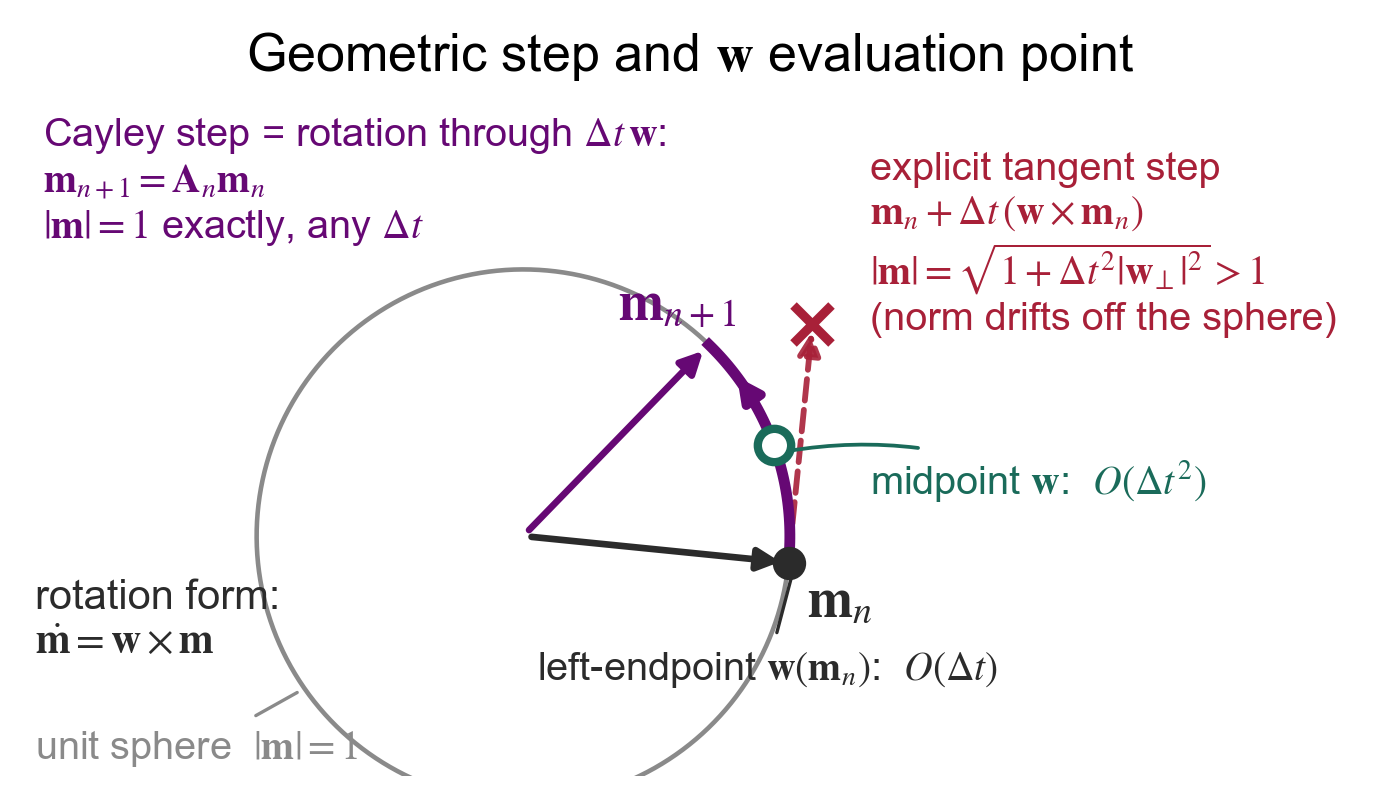
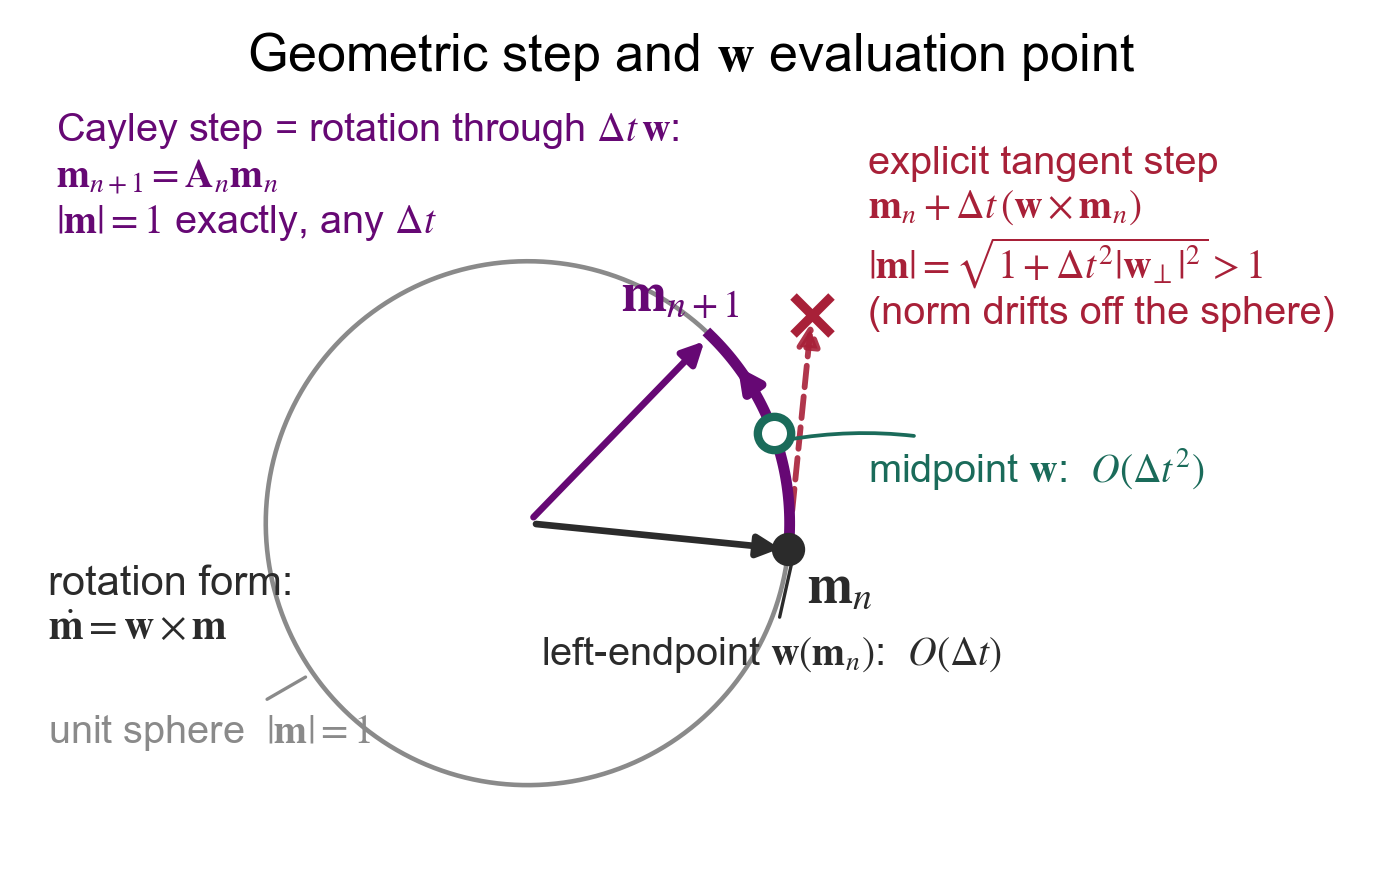
fig(sec-2.2.3.2): article-ready composite (aligned titles, full unit circle)
Round-8 layout pass: panel-a title top-aligned with the data panels via
aspect anchor='N'; unit circle no longer clipped (ylim extended); banner-free
2x2 composite with bbox_inches='tight' so the right-column direct labels are
not clipped. Mirrored to article/figs/Chapter02_local_22.png for insertion as
the next chapter figure.

diff --git a/scripts/09_simulation_figures/fig_integrator_verification_panels.py b/scripts/09_simulation_figures/fig_integrator_verification_panels.py
@@ -192,9 +192,9 @@ def panel_geometry(ax):
                 arrowprops=dict(arrowstyle="-", color=TEAL, lw=0.9,
                                 connectionstyle="arc3,rad=0.15"))
 
-    ax.set_xlim(-1.85, 3.10)
-    ax.set_ylim(-0.90, 1.62)
-    ax.set_aspect("equal")
+    ax.set_xlim(-1.90, 3.15)
+    ax.set_ylim(-1.24, 1.60)
+    ax.set_aspect("equal", adjustable="box", anchor="N")  # top-anchored → title aligns
     ax.axis("off")
     ax.set_title("Geometric step and $\\mathbf{w}$ evaluation point")
 
@@ -384,14 +384,24 @@ for fname, fn in PANELS:
     plt.close(fig)
     print("wrote", os.path.join(OUT, fname))
 
-# preview composite (inspection only, not for publication)
-fig, axes = plt.subplots(2, 2, figsize=(PANEL_SIZE[0] * 2, PANEL_SIZE[1] * 2))
+# ── article-ready 2x2 composite (no banner; titles top-aligned via a fixed
+# GridSpec + panel_geometry's anchor='N'; panel letters are added later in
+# PPT per the figure convention, so none are baked here) ─────────────────
+fig, axes = plt.subplots(2, 2, figsize=(PANEL_SIZE[0] * 2, PANEL_SIZE[1] * 2),
+                         gridspec_kw=dict(hspace=0.34, wspace=0.40,
+                                          left=0.065, right=0.90,
+                                          top=0.955, bottom=0.07))
 for (fname, fn), ax in zip(PANELS, axes.ravel()):
     fn(ax)
-fig.suptitle("PREVIEW ONLY — panels are composited in PPT", fontsize=10,
-             color=GRAY, y=0.995)
-fig.tight_layout(rect=(0, 0, 1, 0.985))
-fig.savefig(os.path.join(OUT, "integrator_panels_preview.png"),
-            bbox_inches="tight", facecolor="white")
+composite = os.path.join(OUT, "integrator_panels_composite.png")
+# bbox_inches='tight' expands the canvas to include the right-column direct
+# labels (which extend past the axes); relative title alignment is preserved
+fig.savefig(composite, facecolor="white", bbox_inches="tight", pad_inches=0.08)
 plt.close(fig)
-print("wrote", os.path.join(OUT, "integrator_panels_preview.png"))
+print("wrote", composite)
+
+# mirror into the manuscript figure folder as the next chapter figure
+import shutil
+dest = os.path.join(ROOT, "article", "figs", "Chapter02_local_22.png")
+shutil.copy(composite, dest)
+print("mirrored", dest)
